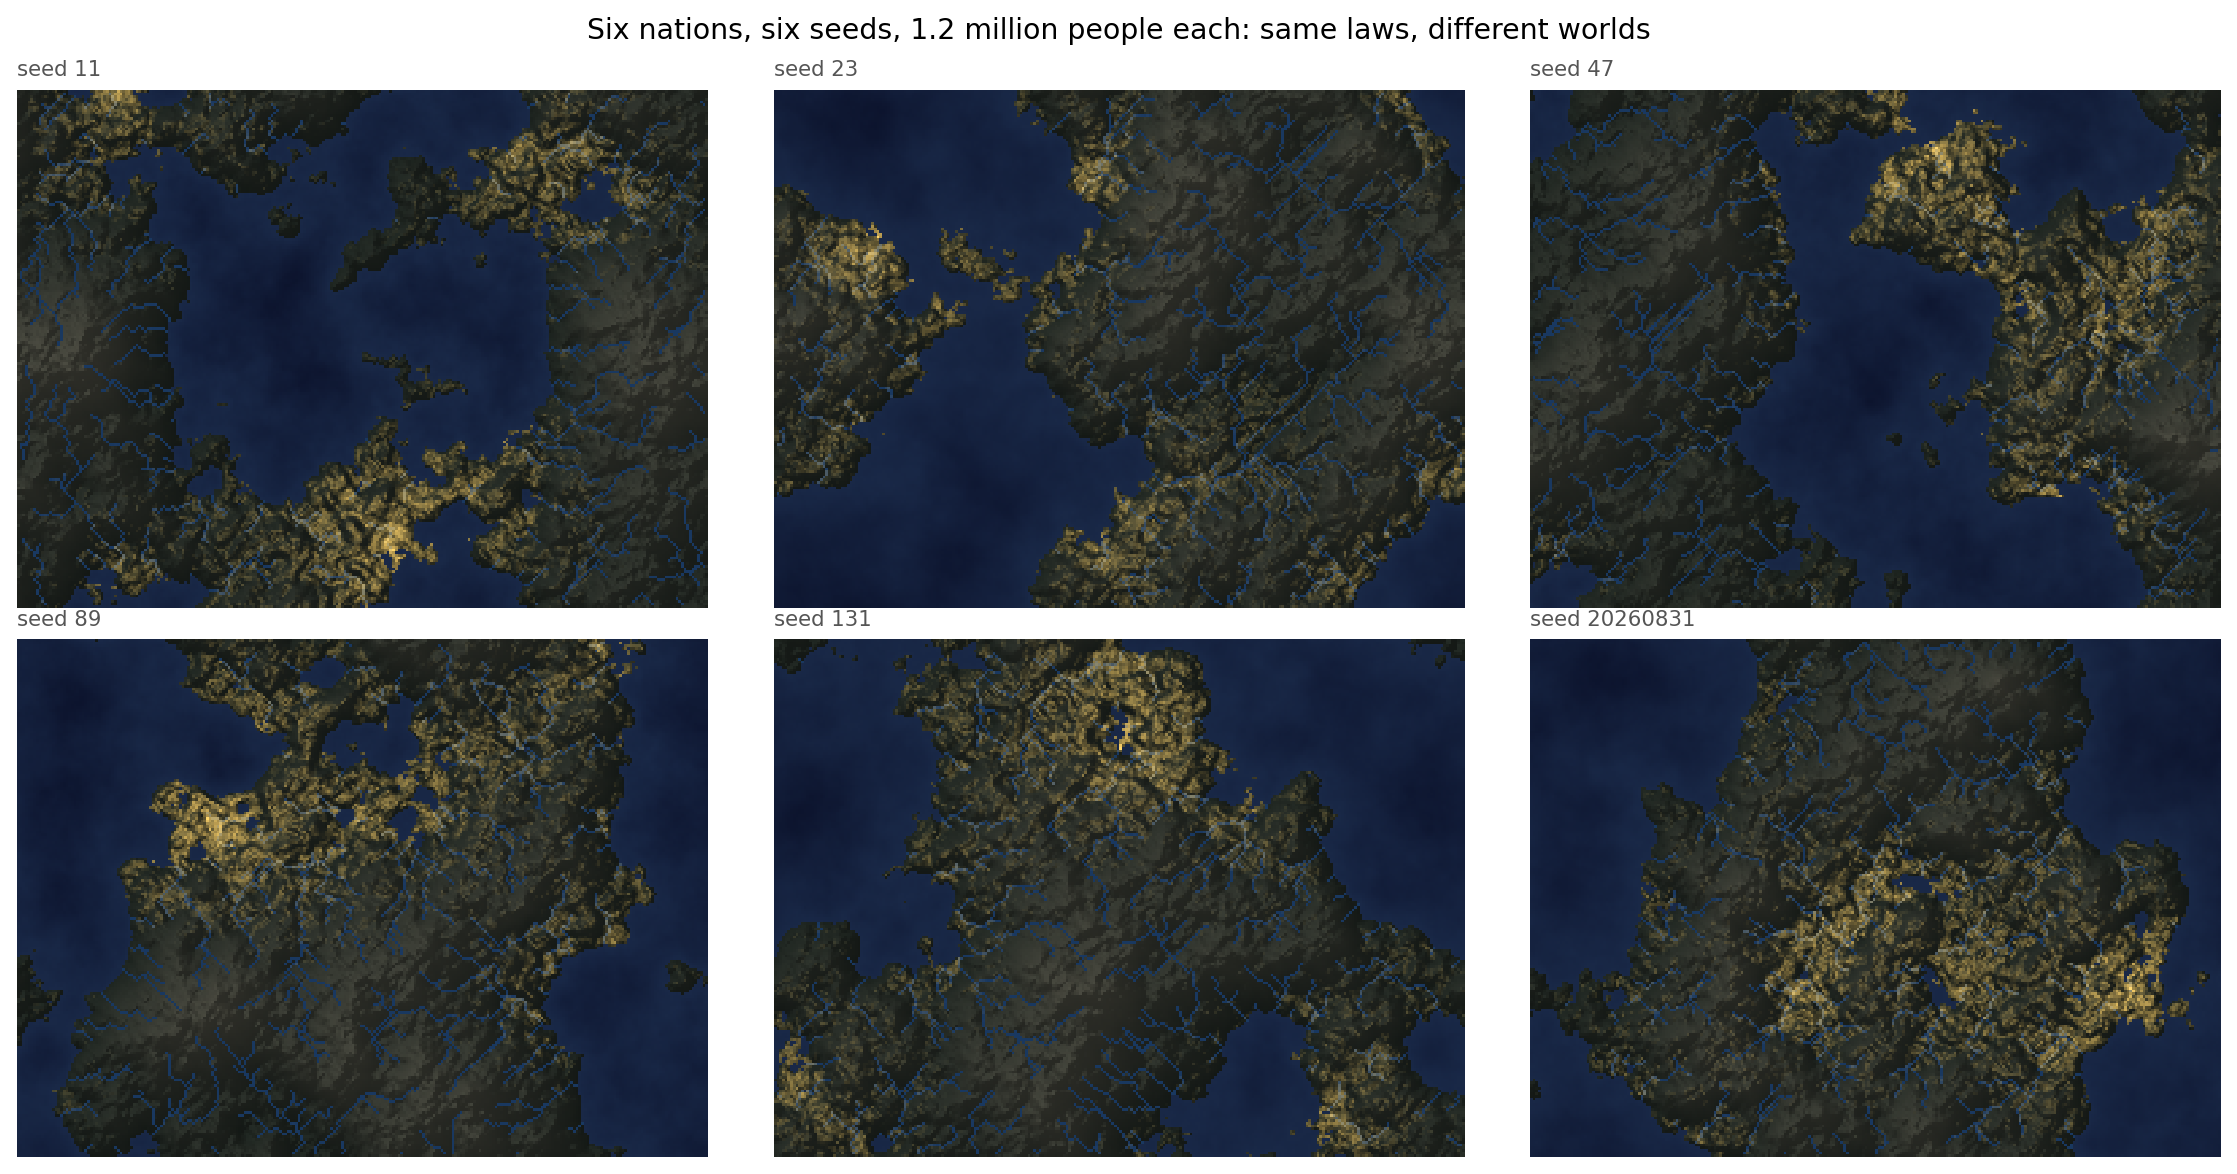
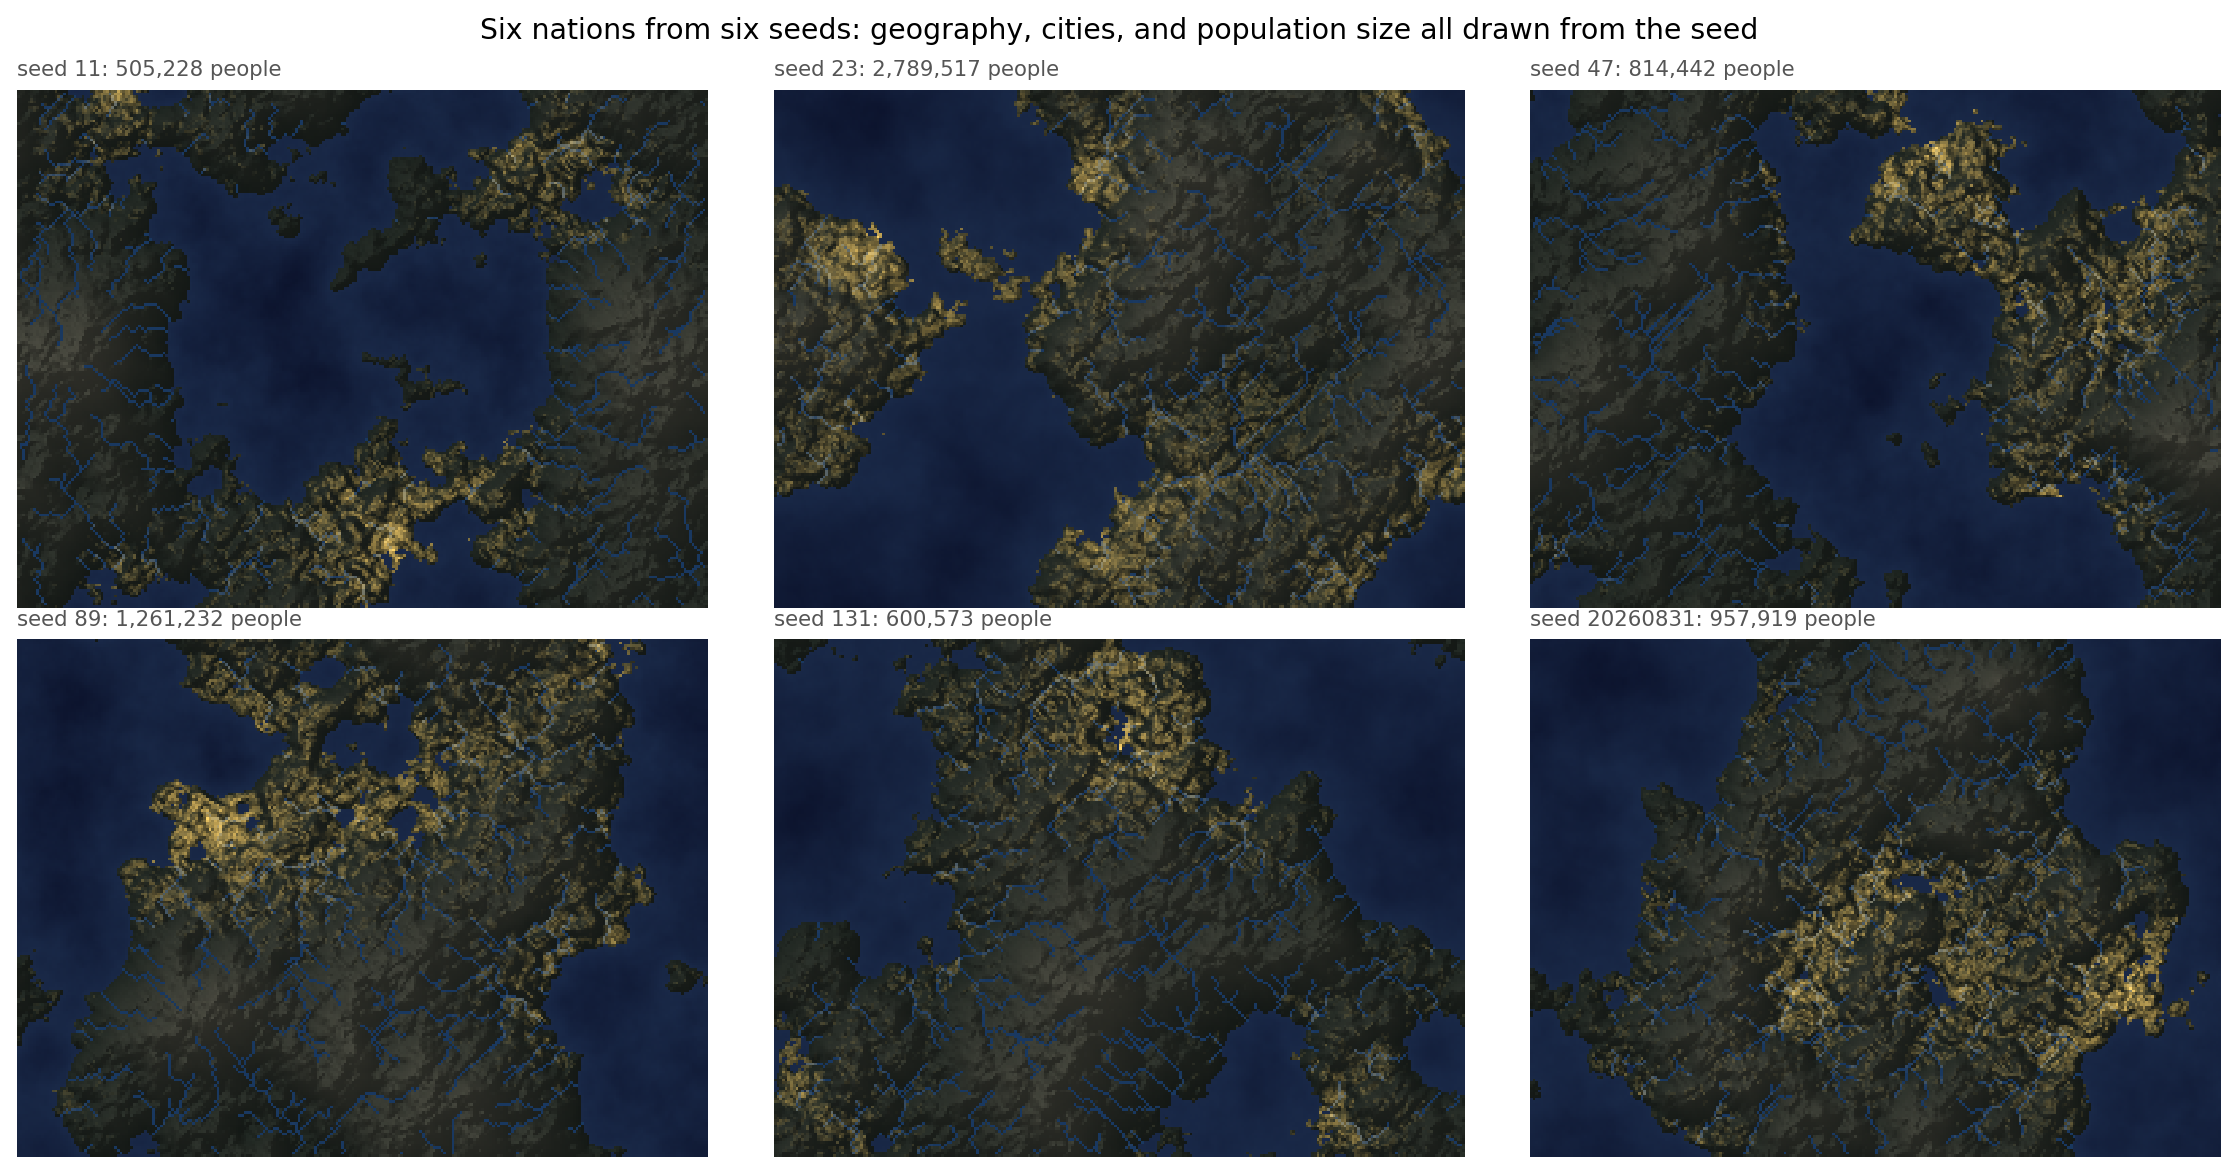
Draw national totals from the seed; plainer README; montage shows varying populations

diff --git a/scripts/render_many_nations.py b/scripts/render_many_nations.py
@@ -9,24 +9,23 @@ import numpy as np
 sys.path.insert(0, str(Path(__file__).resolve().parents[1]))
 
 from meridia.hydrology import fill_depressions, flow_accumulation, flow_directions
-from meridia.population import build_population
+from meridia.population import build_population, draw_national_total
 from meridia.render import hillshade
 from meridia.terrain import generate_elevation
 
 H, W = 192, 256
-TOTAL = 1_200_000
 SETTLEMENTS = 16
 SEEDS = (11, 23, 47, 89, 131, 20260831)
 
 
-def nation_rgb(seed: int) -> np.ndarray:
+def nation_rgb(seed: int) -> tuple:
     world = generate_elevation(seed, H, W)
     outlets = ~world["land"]
     outlets[0, :] = outlets[-1, :] = outlets[:, 0] = outlets[:, -1] = True
     filled = fill_depressions(world["elevation"], world["sea_level"])
     direction = flow_directions(filled, outlets)
     accumulation = flow_accumulation(direction, outlets)
-    people = build_population(world, accumulation, TOTAL, SETTLEMENTS)
+    people = build_population(world, accumulation, None, SETTLEMENTS, seed=seed)
 
     elevation = world["elevation"]
     land = world["land"]
@@ -47,7 +46,7 @@ def nation_rgb(seed: int) -> np.ndarray:
     glow /= max(glow.max(), 1e-9)
     lights = (np.clip(glow - 0.42, 0.0, 1.0) / 0.58) ** 1.6
     warm = np.array([1.00, 0.82, 0.40])
-    return np.clip(rgb * (1.0 - 0.85 * lights[..., None]) + warm * lights[..., None], 0, 1)
+    return np.clip(rgb * (1.0 - 0.85 * lights[..., None]) + warm * lights[..., None], 0, 1), people["total"]
 
 
 import matplotlib
@@ -57,10 +56,11 @@ import matplotlib.pyplot as plt
 t0 = time.time()
 fig, axes = plt.subplots(2, 3, figsize=(13.5, 7), dpi=170)
 for ax, seed in zip(axes.flat, SEEDS):
-    ax.imshow(nation_rgb(seed), interpolation="nearest")
+    rgb, total = nation_rgb(seed)
+    ax.imshow(rgb, interpolation="nearest")
     ax.set_axis_off()
-    ax.set_title(f"seed {seed}", fontsize=9, color="#555555", loc="left")
-fig.suptitle("Six nations, six seeds, 1.2 million people each: same laws, different worlds",
+    ax.set_title(f"seed {seed}: {total:,} people", fontsize=9, color="#555555", loc="left")
+fig.suptitle("Six nations from six seeds: geography, cities, and population size all drawn from the seed",
              fontsize=12)
 fig.tight_layout()
 out = Path(__file__).resolve().parents[1] / "renders" / "meridia-six-nations.png"

diff --git a/meridia/population.py b/meridia/population.py
@@ -37,6 +37,16 @@ class PopulationParams:
     background_share: float = 0.12   # mass spread by habitability alone (rural floor)
 
 
+def draw_national_total(seed: int, land_cells: int) -> int:
+    """National population drawn from the seed: a lognormal density per land cell.
+
+    Nations differ in size the way real countries do; the drawn total is still an exact
+    integer that the allocation conserves to the person."""
+    rng = np.random.default_rng(np.random.SeedSequence([seed, 0x707A]))
+    density = float(rng.lognormal(mean=np.log(30.0), sigma=0.55))
+    return int(round(density * land_cells))
+
+
 def grid_distance(sources: np.ndarray) -> np.ndarray:
     """Chebyshev-metric BFS distance (in cells) from the nearest True cell; inf if none."""
     height, width = sources.shape
@@ -128,10 +138,17 @@ def population_grid(habitability_grid: np.ndarray, sites: list[tuple[int, int]],
     return floors.reshape(height, width)
 
 
-def build_population(world: dict, accumulation: np.ndarray, total: int, n_settlements: int,
-                     params: PopulationParams = PopulationParams()) -> dict:
-    """One call from verified layers to a conserved population grid."""
+def build_population(world: dict, accumulation: np.ndarray, total: int | None, n_settlements: int,
+                     params: PopulationParams = PopulationParams(), seed: int | None = None) -> dict:
+    """One call from verified layers to a conserved population grid.
+
+    Pass ``total=None`` with a ``seed`` to draw the national total from the world itself.
+    """
+    if total is None:
+        if seed is None:
+            raise ValueError("drawing a national total requires a seed")
+        total = draw_national_total(seed, int(world["land"].sum()))
     hab = habitability(world, accumulation, params)
     sites = seed_settlements(hab, n_settlements, params)
     grid = population_grid(hab, sites, total, params)
-    return {"habitability": hab, "settlements": sites, "population": grid}
+    return {"habitability": hab, "settlements": sites, "population": grid, "total": total}

diff --git a/tests/test_population.py b/tests/test_population.py
@@ -82,3 +82,18 @@ def test_capital_is_densest_neighborhood():
         rr, cc = land_idx[i]
         samples.append(grid[max(0, rr - 4):rr + 5, max(0, cc - 4):cc + 5].sum())
     assert capital >= max(samples)
+
+
+def test_drawn_totals_vary_and_conserve():
+    from meridia.population import draw_national_total
+    world = generate_elevation(SEED, H, W)
+    outlets = ~world["land"]
+    outlets[0, :] = outlets[-1, :] = outlets[:, 0] = outlets[:, -1] = True
+    filled = fill_depressions(world["elevation"], world["sea_level"])
+    direction = flow_directions(filled, outlets)
+    accumulation = flow_accumulation(direction, outlets)
+    totals = [draw_national_total(s, int(world["land"].sum())) for s in (1, 2, 3, 4)]
+    assert len(set(totals)) == 4
+    people = build_population(world, accumulation, None, 8, seed=SEED)
+    assert int(people["population"].sum()) == people["total"]
+    assert people["total"] == draw_national_total(SEED, int(world["land"].sum()))

diff --git a/README.md b/README.md
@@ -1,15 +1,18 @@
 # Meridia
 
-A generator for made-up countries where every number has a known true answer.
+Meridia generates synthetic countries for testing statistical methods and AI research
+agents. One seed produces terrain, rivers, settlements, and a population of individual
+people with households, ages, and incomes; the national population size is drawn from
+the seed as well, so nations differ in scale the way countries do. Surveys are then
+drawn from that population with the defects real collection has: unit and item
+nonresponse, measurement error, rounding. Because the complete population is retained,
+the error of any estimate computed from a survey is known exactly, and stated
+uncertainty can be checked against true coverage. No judge models, no real data.
 
-One seed produces a nation: mountains, rivers, cities, and 2.4 million simulated people
-with ages, households, and incomes. It then produces survey data about those people with
-the flaws real survey data has: people who refuse to answer, wrong answers, missing
-values. The generator keeps the true value of everything it makes, so any estimate
-computed from the survey data can be checked exactly.
-
-That is the point. Statistical methods and AI research agents can be tested on this
-data, and the grading is against true values, not against another model's opinion.
+The intended use is a full statistical production chain: the world is observed
+imperfectly by a survey; the observations are edited and imputed; estimates are
+published with uncertainty; retained truth decides whether the release held. Each stage
+of that chain is a benchmark task; the world keeps them mutually consistent.
 
 ![One day over the first nation](renders/meridia-nation-20260831-day.gif)
 
@@ -40,8 +43,8 @@ coasts and rivers, the mountain interior is empty.*
 - **Years passing.** The country ages: everyone gets older, deaths follow an
   age-specific mortality curve, babies join their mother's household, and young adults
   leave home, mostly for the cities. Every event lands in a vital-events register, and
-  the books balance to the person: next year's population equals this year's plus births
-  minus deaths. Thirty years of 2.4 million people simulate in about ten seconds.
+  next year's population equals this year's plus births minus deaths, exactly. Thirty
+  years of 2.4 million people simulate in about ten seconds.
 
 ![Who lives there](renders/meridia-nation-20260831-demographics.png)
 
